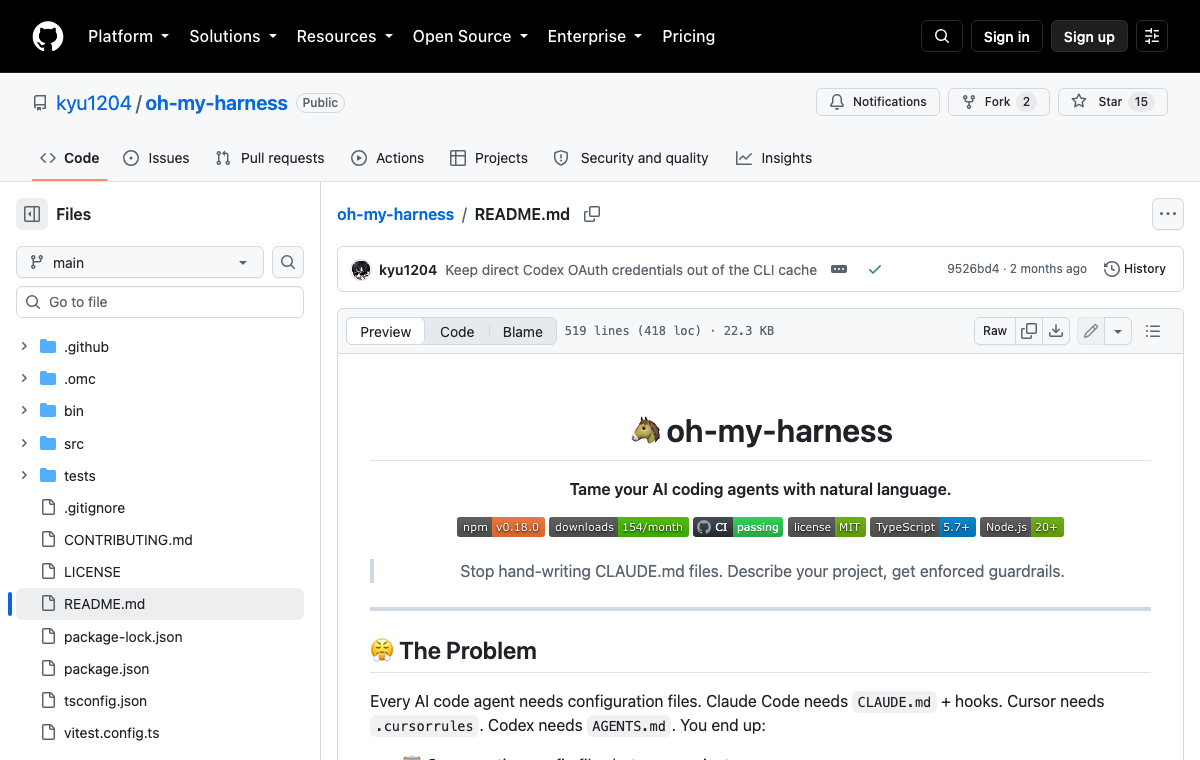
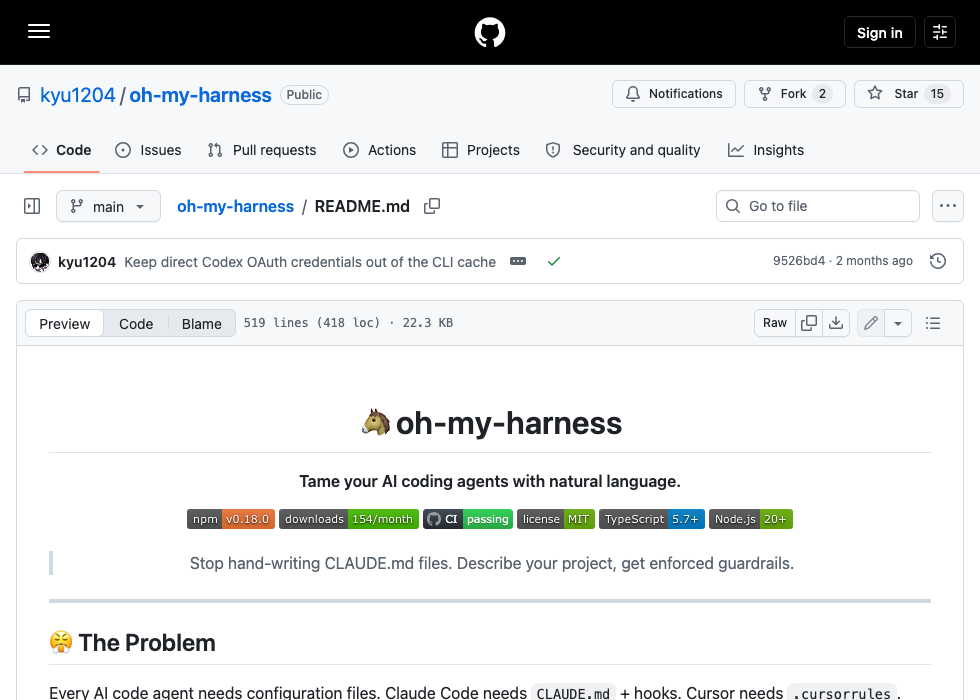
레퍼런스 링크 정리, omh 커버 재캡처, 아바타를 GitHub 아바타로 교체
- HuDy 포스트 레퍼런스에서 api.hudy.co.kr 제거
- 전체 포스트 레퍼런스 URL을 마크다운 링크로 변환
- omh 커버를 파일 사이드바 없는 README 캡처로 교체
- 사이드바 아바타를 GitHub 프로필 이미지(픽셀아트, 480px 업스케일)로 교체

diff --git a/_posts/2022-08-25-argocd-vault.md b/_posts/2022-08-25-argocd-vault.md
@@ -402,6 +402,6 @@ secret 에 대한 중요한 데이터를 private git server에 올리면 상관 
 
 ## Reference
 
-- HashiCorp Vault: [](https://www.vaultproject.io/)[https://www.vaultproject.io/](https://www.vaultproject.io/)
-- argocd-vault-plugin: [](https://argocd-vault-plugin.readthedocs.io/en/stable/)[https://argocd-vault-plugin.readthedocs.io/en/stable/](https://argocd-vault-plugin.readthedocs.io/en/stable/)
-- [](https://velog.io/@wlgns5376/GitOps-ArgoCD%EC%97%90-Vault-%EC%A0%81%EC%9A%A9%ED%95%98%EA%B8%B0)[https://velog.io/@wlgns5376/GitOps-ArgoCD에-Vault-적용하기](https://velog.io/@wlgns5376/GitOps-ArgoCD%EC%97%90-Vault-%EC%A0%81%EC%9A%A9%ED%95%98%EA%B8%B0)
+- [HashiCorp Vault](https://www.vaultproject.io/)
+- [argocd-vault-plugin](https://argocd-vault-plugin.readthedocs.io/en/stable/)
+- [GitOps ArgoCD에 Vault 적용하기](https://velog.io/@wlgns5376/GitOps-ArgoCD%EC%97%90-Vault-%EC%A0%81%EC%9A%A9%ED%95%98%EA%B8%B0)

diff --git a/_posts/2022-05-07-kubernetes-argocd.md b/_posts/2022-05-07-kubernetes-argocd.md
@@ -230,6 +230,6 @@ CD 툴인 ArgoCD 를 kubernetes cluster 위에 배포, Git Repo 연결을 통해
 
 ## Reference
 
-- https://argo-cd.readthedocs.io/en/stable/#getting-started
-- https://github.com/argoproj/argo-cd/releases?q=stable&expanded=true
-- https://velog.io/@airoasis/ArgoCD-Kubernetes-Deployment
+- [Argo CD - Getting Started](https://argo-cd.readthedocs.io/en/stable/#getting-started)
+- [argoproj/argo-cd Releases](https://github.com/argoproj/argo-cd/releases?q=stable&expanded=true)
+- [ArgoCD Kubernetes Deployment](https://velog.io/@airoasis/ArgoCD-Kubernetes-Deployment)

diff --git a/_posts/2022-04-22-rook-ceph.md b/_posts/2022-04-22-rook-ceph.md
@@ -302,6 +302,6 @@ Cephadm을 이용한 온프레미스 서버에 Ceph Cluster 를 배포하는 내
 
 ## Reference
 
-- https://rook.io/docs/rook/v1.9/quickstart.html
-- https://docs.ceph.com/en/latest/rbd/rados-rbd-cmds/?#create-a-block-device-pool
-- https://yjwang.tistory.com/128
+- [Rook Quickstart](https://rook.io/docs/rook/v1.9/quickstart.html)
+- [Ceph Block Device Commands](https://docs.ceph.com/en/latest/rbd/rados-rbd-cmds/?#create-a-block-device-pool)
+- [yjwang.tistory.com/128](https://yjwang.tistory.com/128)

diff --git a/_posts/2026-08-19-oh-my-harness.md b/_posts/2026-08-19-oh-my-harness.md
@@ -99,5 +99,5 @@ omh sync --check  # 생성 파일이 stale하면 exit 1 - CI 게이트
 
 ## Reference
 
-- https://github.com/kyu1204/oh-my-harness
-- https://www.npmjs.com/package/oh-my-harness
+- [kyu1204/oh-my-harness](https://github.com/kyu1204/oh-my-harness)
+- [oh-my-harness - npm](https://www.npmjs.com/package/oh-my-harness)

diff --git a/_posts/2022-04-21-kubespray.md b/_posts/2022-04-21-kubespray.md
@@ -250,4 +250,4 @@ kubespray 를 통한 kubernetes cloud 배포를 진행해봤는데, 확실히 an
 
 ## Reference
 
-- https://github.com/kubernetes-sigs/kubespray
+- [kubernetes-sigs/kubespray](https://github.com/kubernetes-sigs/kubespray)
